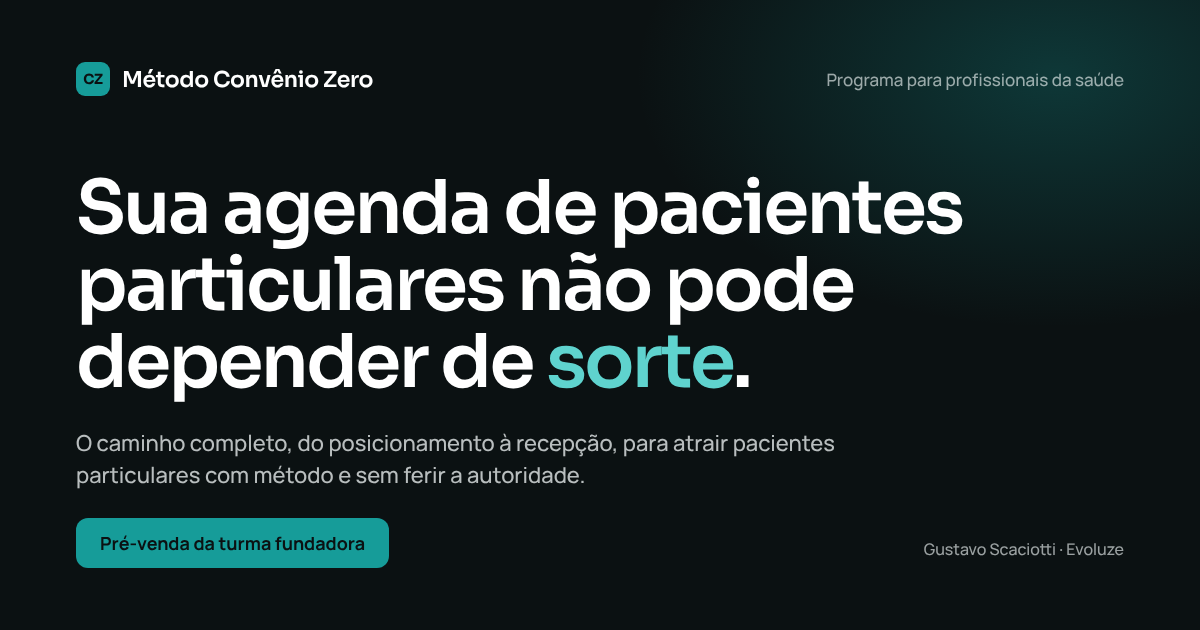
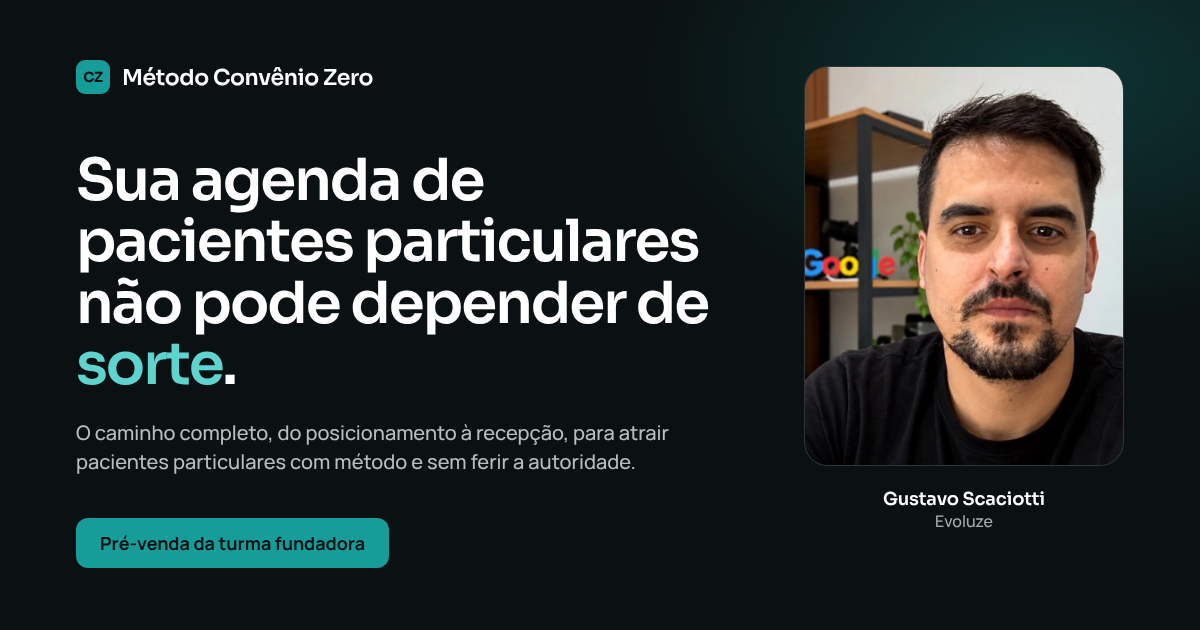
Foto do retrato no hero e em Quem ensina; depoimento aceita vídeo nativo ou embed
Claude-Session: https://claude.ai/code/session_01NGC4jGd1UbTqep5iRWAAkF

diff --git a/index.html b/index.html
@@ -40,7 +40,8 @@
 const CONFIG = {
   CHECKOUT_URL: "#oferta",          // link do checkout da Kiwify (ex.: "https://pay.kiwify.com.br/XXXXXXX")
   META_PIXEL_ID: "1442309868054268", // ID do Pixel do Meta (vazio = não carrega)
-  DEPOIMENTO_VIDEO_URL: "",         // link embed do vídeo (YouTube/Vimeo). Vazio = seção oculta
+  DEPOIMENTO_VIDEO_URL: "",         // link embed (YouTube/Vimeo) ou arquivo .mp4 (ex.: "assets/depoimento-eveline.mp4"). Vazio = seção oculta
+  DEPOIMENTO_POSTER: "",            // imagem de capa do vídeo, só para arquivo .mp4 (ex.: "assets/depoimento-eveline.jpg")
   DEPOIMENTO_NOME: "",              // ex.: "Dra. Eveline, ortodontista"
   PRECO_FUNDADOR: "147",
   PRECO_CHEIO: "197",
@@ -236,7 +237,7 @@ a:focus-visible,summary:focus-visible,input:focus-visible{outline:3px solid var(
 /* DEPOIMENTO */
 #depoimento{display:none}
 .video{position:relative;padding-top:56.25%;border-radius:20px;overflow:hidden;background:#000;margin-top:28px}
-.video iframe{position:absolute;inset:0;width:100%;height:100%;border:0}
+.video iframe,.video video{position:absolute;inset:0;width:100%;height:100%;border:0;background:#000}
 
 /* OFERTA */
 .oferta-grid{display:grid;grid-template-columns:minmax(0,1fr);gap:28px;align-items:start;margin-top:44px}
@@ -536,7 +537,7 @@ footer a:hover{border-color:#EAF0F0}
   <div class="wrap">
     <p class="sobre-titulo">Quem já trabalha com o método</p>
     <h2 id="dep-nome"></h2>
-    <div class="video"><iframe id="dep-video" title="Depoimento em vídeo" loading="lazy" allow="accelerometer; autoplay; clipboard-write; encrypted-media; picture-in-picture" allowfullscreen></iframe></div>
+    <div class="video" id="dep-caixa"></div>
   </div>
 </section>
 
@@ -704,8 +705,19 @@ footer a:hover{border-color:#EAF0F0}
 
   // depoimento opcional
   if (CONFIG.DEPOIMENTO_VIDEO_URL) {
+    var u = CONFIG.DEPOIMENTO_VIDEO_URL, caixa = document.getElementById('dep-caixa'), el;
+    if (/\.(mp4|webm|mov)(\?|$)/i.test(u)) {
+      el = document.createElement('video');
+      el.src = u; el.controls = true; el.playsInline = true; el.preload = 'metadata';
+      if (CONFIG.DEPOIMENTO_POSTER) el.poster = CONFIG.DEPOIMENTO_POSTER;
+      el.setAttribute('aria-label', 'Depoimento em vídeo');
+    } else {
+      el = document.createElement('iframe');
+      el.src = u; el.title = 'Depoimento em vídeo'; el.loading = 'lazy';
+      el.allow = 'accelerometer; autoplay; clipboard-write; encrypted-media; picture-in-picture'; el.allowFullscreen = true;
+    }
+    caixa.appendChild(el);
     document.getElementById('depoimento').style.display = 'block';
-    document.getElementById('dep-video').src = CONFIG.DEPOIMENTO_VIDEO_URL;
     document.getElementById('dep-nome').textContent = CONFIG.DEPOIMENTO_NOME || '';
   }
 
